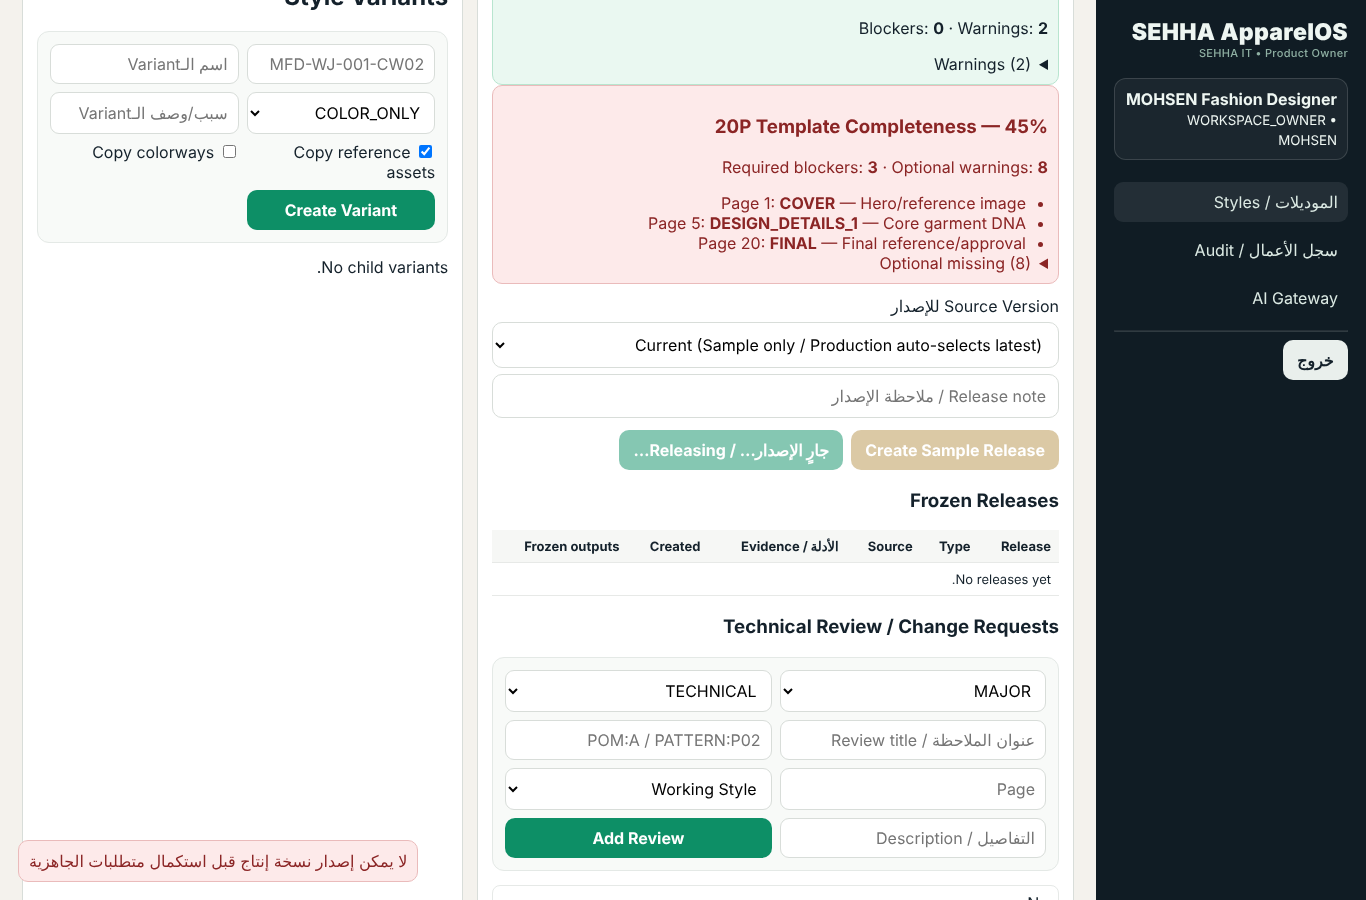
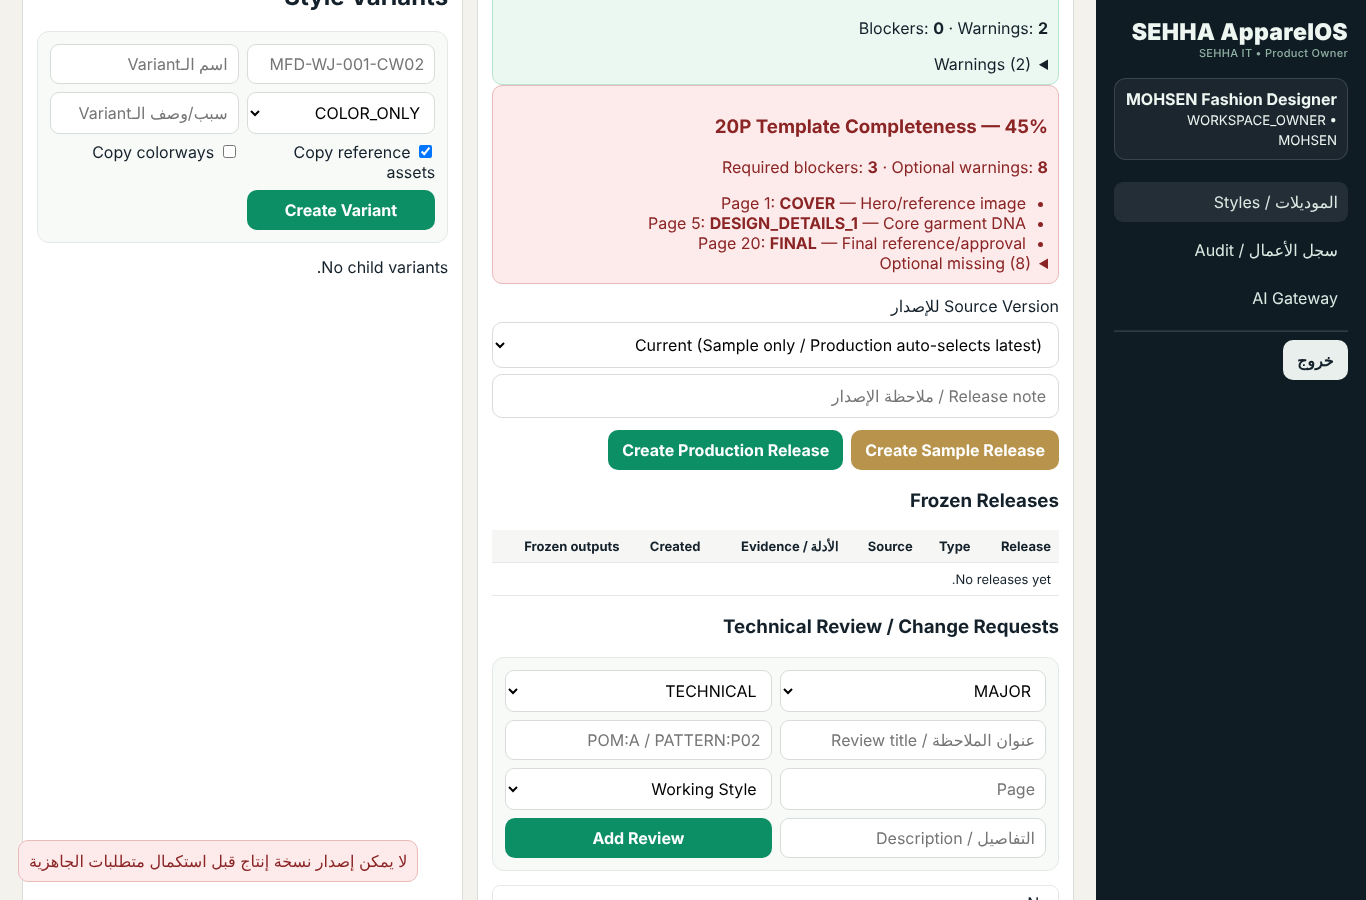
Fix same-key retry overtaken before pre-check returning 409 (found by CI)
GitHub CI (workerd D1, run 38838696311) showed that a same-key request whose
receipt lookup ran before the original committed, but whose
PRODUCTION_ALREADY_RELEASED pre-check ran after, answered 409 instead of the
original response. Every non-success answer after the first receipt lookup
now goes through settle(), which prefers the winning receipt.

Deterministic reproductions added on both engines (R29-T06 interleave,
R29-W9); both fail on the previous module and pass now. Evidence updated.

Claude-Session: https://claude.ai/code/session_012jyg7NWdrKiB9ySKJbcW6U

Changed region(s): [[0.4305, 0.4667, 0.7994, 0.5289]]

diff --git a/src/production_release.js b/src/production_release.js
@@ -69,23 +69,26 @@ export async function createRelease(request,env,styleId,ctx){
   const requestSha=await sha256Text(JSON.stringify(stableComparable({operation:OPERATION,styleId,releaseType:type,sourceVersionNo:requestedVersion,templateKey,note})));
   // Idempotent replay: same actor + tenant + operation + key. Access was re-verified above, so a revoked actor never sees it.
   const prior=await receiptFor(env,orgId,sess.userId,key);if(prior){const r=replay(prior,requestSha);return r.replayed||send(r.response);}
+  // A concurrent request with the same key may commit at any point after this lookup. Every non-success answer below is
+  // therefore routed through settle(), which prefers that winner's receipt over a conflict computed from stale reads.
+  const settle=async r=>{const won=await receiptFor(env,orgId,sess.userId,key);if(won){const rp=replay(won,requestSha);return rp.replayed||send(rp.response);}return send(r);};
 
   // Fingerprints are read BEFORE the evidence they protect, so any later change is visible at commit.
   const fp=await fingerprints(env,styleId);
   const current=await styleSnapshot(env,styleId);
   let sourceVersionNo=requestedVersion,frozen=current,candidateRaw=null;
-  if(sourceVersionNo==null&&type==='PRODUCTION'){const latest=current.versions?.[0];if(!latest)return send({status:409,body:{error:'Production release requires a frozen Style Version',code:'VERSION_REQUIRED',gate:releaseGate(current,type)}});sourceVersionNo=Number(latest.version_no);}
-  if(sourceVersionNo!=null){candidateRaw=await env.DB.prepare('SELECT snapshot_json,length(snapshot_json) len FROM style_versions WHERE style_id=? AND version_no=?').bind(styleId,sourceVersionNo).first();if(!candidateRaw)return send({status:404,body:{error:'Source version not found'}});frozen=await loadVersionSnapshot(env,styleId,sourceVersionNo);}
+  if(sourceVersionNo==null&&type==='PRODUCTION'){const latest=current.versions?.[0];if(!latest)return settle({status:409,body:{error:'Production release requires a frozen Style Version',code:'VERSION_REQUIRED',gate:releaseGate(current,type)}});sourceVersionNo=Number(latest.version_no);}
+  if(sourceVersionNo!=null){candidateRaw=await env.DB.prepare('SELECT snapshot_json,length(snapshot_json) len FROM style_versions WHERE style_id=? AND version_no=?').bind(styleId,sourceVersionNo).first();if(!candidateRaw)return settle({status:404,body:{error:'Source version not found'}});frozen=await loadVersionSnapshot(env,styleId,sourceVersionNo);}
   const releaseSnapshot={...frozen,samples:(current.samples||[]).filter(x=>sourceVersionNo==null||Number(x.version_no)===Number(sourceVersionNo)),costSheets:(current.costSheets||[]).filter(x=>x.version_no==null||sourceVersionNo==null||Number(x.version_no)===Number(sourceVersionNo))};
-  const gate=releaseGate(releaseSnapshot,type,{sourceVersionNo});if(!gate.ready)return send({status:409,body:{error:'Release gate blocked',code:'RELEASE_GATE_BLOCKED',gate}});
+  const gate=releaseGate(releaseSnapshot,type,{sourceVersionNo});if(!gate.ready)return settle({status:409,body:{error:'Release gate blocked',code:'RELEASE_GATE_BLOCKED',gate}});
   const candidateSha=await sha256Text(candidateRaw?candidateRaw.snapshot_json:JSON.stringify(stableComparable(frozen)));
   if(type==='PRODUCTION'){
-    if(await env.DB.prepare("SELECT 1 x FROM style_releases WHERE style_id=? AND release_type='PRODUCTION' AND source_version_no=?").bind(styleId,sourceVersionNo).first())return send(fail(409,'PRODUCTION_ALREADY_RELEASED',{sourceVersionNo}));
+    if(await env.DB.prepare("SELECT 1 x FROM style_releases WHERE style_id=? AND release_type='PRODUCTION' AND source_version_no=?").bind(styleId,sourceVersionNo).first())return settle(fail(409,'PRODUCTION_ALREADY_RELEASED',{sourceVersionNo}));
     const r=frozenEngineeringReadiness(frozen,releaseSnapshot.samples);
     const evidenceSha=await sha256Text(JSON.stringify(stableComparable({samples:releaseSnapshot.samples,costSheets:releaseSnapshot.costSheets})));
     const engineering={...r,basis:'FROZEN_STYLE_VERSION',captureContract:ENGINEERING_CAPTURE_CONTRACT,sourceVersionNo,candidateSha256:candidateSha,evidenceSha256:evidenceSha,evaluatedAt:now(),
       decision:r.status,humanApproval:{state:'NOT_GRANTED_BY_THIS_GATE',requiredSignoffsForHandoff:['DESIGN','PATTERN','PRODUCTION','QC']}};
-    if(r.status!=='ELIGIBLE_FOR_MANUAL_RELEASE_REVIEW'){const code=r.blockers.includes('ENGINEERING_NOT_CAPTURED_IN_VERSION')?'ENGINEERING_NOT_CAPTURED_IN_VERSION':'ENGINEERING_READINESS_BLOCKED';return send(fail(409,code,{engineering,gate}));}
+    if(r.status!=='ELIGIBLE_FOR_MANUAL_RELEASE_REVIEW'){const code=r.blockers.includes('ENGINEERING_NOT_CAPTURED_IN_VERSION')?'ENGINEERING_NOT_CAPTURED_IN_VERSION':'ENGINEERING_READINESS_BLOCKED';return settle(fail(409,code,{engineering,gate}));}
     engineering.decisionSha256=await sha256Text(JSON.stringify(stableComparable({rulesVersion:r.rulesVersion,blockers:r.blockers,status:r.status,candidateSha256:candidateSha,evidenceSha256:evidenceSha})));
     gate.engineering=engineering;releaseSnapshot.engineeringReadiness=engineering;
   }
@@ -118,7 +121,7 @@ export async function createRelease(request,env,styleId,ctx){
   catch(e){
     const msg=String(e?.message||e);
     // A concurrent request with the same key may have won: answer with its receipt, never with a second release.
-    const won=await receiptFor(env,orgId,sess.userId,key);if(won){const r=replay(won,requestSha);return r.replayed||send(r.response);}
+    const won=await receiptFor(env,orgId,sess.userId,key);if(won){const rp=replay(won,requestSha);return rp.replayed||send(rp.response);}
     if(/NOT NULL constraint failed: release_receipts\.release_id/.test(msg)){
       const now2=await actorAccess(env,sess.userId,orgId);if(!now2.ok)return send(fail(403,now2.code));
       if(!(await licensed(env,orgId)))return send(fail(403,'FEATURE_NOT_LICENSED'));

diff --git a/qa/ROUND29_CLOUD_20261016/FAILURE_INJECTION_EVIDENCE.md b/qa/ROUND29_CLOUD_20261016/FAILURE_INJECTION_EVIDENCE.md
@@ -1,42 +1,42 @@
-# Failure injection evidence (ROUND29)
+# Failure injection evidence (ROUND29, final code)
 
-Method: a real SQLite trigger `RAISE(ABORT,'INJECTED_FAILURE')` is created on the target table, one release is attempted with an Idempotency-Key, the trigger is dropped, and the same key is retried. Counts are taken from the database before/after (`releases`/`receipts` for the style, `audits` = all `RELEASE/CREATE` audit rows, `status` = style status).
+Method: a real SQLite trigger `RAISE(ABORT,'INJECTED_FAILURE')` is created on the target table, one release is attempted with an Idempotency-Key, the trigger is dropped, and the same key is retried. Counts come from the database (`releases`/`receipts` for the style, `audits` = all `RELEASE/CREATE` audit rows, `status` = style status).
 
-There is no separate security-event table in this product; `audit_log` is the mandatory audit/security evidence and `release_receipts` is the success representation. Both are inside the batch.
+This product has no separate security-event table: `audit_log` is the mandatory audit/security evidence and `release_receipts` is the success representation. Both are inside the batch.
 
 ## node:sqlite engine (tests/round29_atomic_release.mjs, T07)
 
 | Injected at | HTTP | Before | After failure | After same-key retry |
 |---|---|---|---|---|
-| style_releases INSERT | 500 RELEASE_COMMIT_FAILED | rel=0 rcp=0 audit=10 status=DRAFT | rel=0 rcp=0 audit=10 status=DRAFT | rel=1 rcp=1 audit=11 status=PRODUCTION_RELEASED |
-| release_receipts INSERT | 500 RELEASE_COMMIT_FAILED | rel=0 rcp=0 audit=11 status=DRAFT | rel=0 rcp=0 audit=11 status=DRAFT | rel=1 rcp=1 audit=12 status=PRODUCTION_RELEASED |
-| styles UPDATE | 500 RELEASE_COMMIT_FAILED | rel=0 rcp=0 audit=12 status=DRAFT | rel=0 rcp=0 audit=12 status=DRAFT | rel=1 rcp=1 audit=13 status=PRODUCTION_RELEASED |
-| audit_log INSERT | 500 RELEASE_COMMIT_FAILED | rel=0 rcp=0 audit=13 status=DRAFT | rel=0 rcp=0 audit=13 status=DRAFT | rel=1 rcp=1 audit=14 status=PRODUCTION_RELEASED |
+| style_releases INSERT | 500 RELEASE_COMMIT_FAILED | rel=0 rcp=0 audit=11 status=DRAFT | rel=0 rcp=0 audit=11 status=DRAFT | rel=1 rcp=1 audit=12 status=PRODUCTION_RELEASED |
+| release_receipts INSERT | 500 RELEASE_COMMIT_FAILED | rel=0 rcp=0 audit=12 status=DRAFT | rel=0 rcp=0 audit=12 status=DRAFT | rel=1 rcp=1 audit=13 status=PRODUCTION_RELEASED |
+| styles UPDATE | 500 RELEASE_COMMIT_FAILED | rel=0 rcp=0 audit=13 status=DRAFT | rel=0 rcp=0 audit=13 status=DRAFT | rel=1 rcp=1 audit=14 status=PRODUCTION_RELEASED |
+| audit_log INSERT | 500 RELEASE_COMMIT_FAILED | rel=0 rcp=0 audit=14 status=DRAFT | rel=0 rcp=0 audit=14 status=DRAFT | rel=1 rcp=1 audit=15 status=PRODUCTION_RELEASED |
 
 ## workerd local D1 (tests/round29_workerd_d1.mjs, W6)
 
 | Injected at | HTTP | Before | After |
 |---|---|---|---|
-| style_releases INSERT | 500 RELEASE_COMMIT_FAILED | rel=0 rcp=0 audit=4 status=DRAFT | rel=0 rcp=0 audit=4 status=DRAFT |
-| release_receipts INSERT | 500 RELEASE_COMMIT_FAILED | rel=0 rcp=0 audit=4 status=DRAFT | rel=0 rcp=0 audit=4 status=DRAFT |
-| styles UPDATE | 500 RELEASE_COMMIT_FAILED | rel=0 rcp=0 audit=4 status=DRAFT | rel=0 rcp=0 audit=4 status=DRAFT |
-| audit_log INSERT | 500 RELEASE_COMMIT_FAILED | rel=0 rcp=0 audit=4 status=DRAFT | rel=0 rcp=0 audit=4 status=DRAFT |
+| style_releases INSERT | 500 RELEASE_COMMIT_FAILED | rel=0 rcp=0 audit=5 status=DRAFT | rel=0 rcp=0 audit=5 status=DRAFT |
+| release_receipts INSERT | 500 RELEASE_COMMIT_FAILED | rel=0 rcp=0 audit=5 status=DRAFT | rel=0 rcp=0 audit=5 status=DRAFT |
+| styles UPDATE | 500 RELEASE_COMMIT_FAILED | rel=0 rcp=0 audit=5 status=DRAFT | rel=0 rcp=0 audit=5 status=DRAFT |
+| audit_log INSERT | 500 RELEASE_COMMIT_FAILED | rel=0 rcp=0 audit=5 status=DRAFT | rel=0 rcp=0 audit=5 status=DRAFT |
 
 ## Commit-window drift (guard aborts, not injected errors)
 
 | Engine | Drift | Code | Before | After |
 |---|---|---|---|---|
-| node:sqlite | new Style Version created | STALE_CANDIDATE | rel=0 rcp=0 audit=14 | rel=0 rcp=0 audit=14 |
-| node:sqlite | PP sample approval revoked | STALE_CANDIDATE | rel=0 rcp=0 audit=14 | rel=0 rcp=0 audit=14 |
-| node:sqlite | cost line added | STALE_CANDIDATE | rel=0 rcp=0 audit=14 | rel=0 rcp=0 audit=14 |
-| node:sqlite | competing release committed | RELEASE_CONFLICT | rel=0 rcp=0 audit=14 | rel=1 rcp=0 audit=14 |
-| node:sqlite | membership removed | FORBIDDEN_ACTOR | rel=0 rcp=0 audit=17 | rel=0 rcp=0 audit=17 |
-| node:sqlite | user deactivated | FORBIDDEN_ACTOR | rel=0 rcp=0 audit=17 | rel=0 rcp=0 audit=17 |
-| node:sqlite | platform admin flag revoked (no membership) | FORBIDDEN_ACTOR | rel=0 rcp=0 audit=17 | rel=0 rcp=0 audit=17 |
-| node:sqlite | RELEASES entitlement disabled | FEATURE_NOT_LICENSED | rel=0 rcp=0 audit=17 | rel=0 rcp=0 audit=17 |
-| workerd D1 | new Style Version created | STALE_CANDIDATE | rel=0 rcp=0 audit=4 | rel=0 rcp=0 audit=4 |
-| workerd D1 | membership of actor removed | FORBIDDEN_ACTOR | rel=0 rcp=0 audit=4 | rel=0 rcp=0 audit=4 |
+| node:sqlite | new Style Version created | STALE_CANDIDATE | rel=0 rcp=0 audit=15 | rel=0 rcp=0 audit=15 |
+| node:sqlite | PP sample approval revoked | STALE_CANDIDATE | rel=0 rcp=0 audit=15 | rel=0 rcp=0 audit=15 |
+| node:sqlite | cost line added | STALE_CANDIDATE | rel=0 rcp=0 audit=15 | rel=0 rcp=0 audit=15 |
+| node:sqlite | competing release committed | RELEASE_CONFLICT | rel=0 rcp=0 audit=15 | rel=1 rcp=0 audit=15 |
+| node:sqlite | membership removed | FORBIDDEN_ACTOR | rel=0 rcp=0 audit=18 | rel=0 rcp=0 audit=18 |
+| node:sqlite | user deactivated | FORBIDDEN_ACTOR | rel=0 rcp=0 audit=18 | rel=0 rcp=0 audit=18 |
+| node:sqlite | platform admin flag revoked (no membership) | FORBIDDEN_ACTOR | rel=0 rcp=0 audit=18 | rel=0 rcp=0 audit=18 |
+| node:sqlite | RELEASES entitlement disabled | FEATURE_NOT_LICENSED | rel=0 rcp=0 audit=18 | rel=0 rcp=0 audit=18 |
+| workerd D1 | new Style Version created | STALE_CANDIDATE | rel=0 rcp=0 audit=5 | rel=0 rcp=0 audit=5 |
+| workerd D1 | membership of actor removed | FORBIDDEN_ACTOR | rel=0 rcp=0 audit=5 | rel=0 rcp=0 audit=5 |
 
-Response bodies on 500 contain only `{error, code:'RELEASE_COMMIT_FAILED', correlationId}`; the tests assert no `INJECTED`, `SQLITE`, `D1_ERROR`, `constraint`, `INSERT` or `UPDATE` text leaks.
+500 bodies contain only `{error, code:'RELEASE_COMMIT_FAILED', correlationId}`; the tests assert that no `INJECTED`, `SQLITE`, `D1_ERROR`, `constraint`, `INSERT` or `UPDATE` text leaks.
 
 Raw logs: `raw/round29_atomic_release.log`, `raw/round29_workerd_d1.log`.

diff --git a/qa/ROUND29_CLOUD_20261016/ROUND29_AR_EXECUTIVE_REPORT.md b/qa/ROUND29_CLOUD_20261016/ROUND29_AR_EXECUTIVE_REPORT.md
@@ -1,0 +1,66 @@
+# تقرير ROUND29 التنفيذي — إصدار الإنتاج الذري (Atomic Production Release)
+
+**الحكم: `FOCUSED_PASS`** لنطاق الجولة. التجربة الإنتاجية (Production Pilot) ما زالت **BLOCKED**.
+
+## المصدر والسلسلة
+- الفرع الحديث: `codex/apparelos-preview21-integration` @ `9bcd13d` (PR #1).
+- PR #2 (ROUND28): head `c779d48`، وهو مطابق للتقرير السابق بلا انحراف، وCI الخاص به ناجح على GitHub.
+- فرع هذه الجولة: `claude/round29-atomic-release`. الـcommit الأول `068c257`.
+- PR #3 (Draft) مكدّس على فرع PR #2، فلا يظهر فيه إلا تغيير ROUND29. لم يتم أي merge ولا deploy، و`main` لم يُلمس.
+
+## ما تم فعليًا
+1. **أمر إصدار واحد**: أصبح `POST /releases` كله في `src/production_release.js`.
+   - كل شرط قابل للتغيّر بين التقييم والحفظ يُعاد فحصه داخل `D1.batch()` واحد، وهو معاملة واحدة: الـtenant، نشاط المستخدم وعضويته من قاعدة البيانات لا من الـcookie، الترخيص، عدم وجود إصدار منافس، عدم ظهور نسخة جديدة، ثبات أدلة العينة والتكلفة، وإصدار إنتاج واحد فقط لكل نسخة.
+   - في نفس المعاملة يُحفظ: صف الإصدار، إيصال غير قابل للتعديل، حالة الموديل، وسجل الـaudit.
+2. **Idempotency-Key**:
+   - إعادة نفس الطلب ترجع الرد الأصلي حرفيًا.
+   - نفس المفتاح مع طلب مختلف يرجع 409.
+   - الخاسر في السباق يحصل على 409 وليس 500.
+   - الخطأ غير المتوقع يرجع 500 برقم تتبع، دون أي نص SQL.
+3. **جاهزية مجمّدة**:
+   - البيانات الهندسية تُلتقط داخل نسخة الموديل.
+   - جاهزية الإنتاج تُحسب من النسخة المجمّدة فقط، وتُحفظ معها hashes للمرشّح وللأدلة وللقرار، ورقم إصدار القواعد.
+   - «مؤهّل للمراجعة» لا يعني «معتمد»: لا يُنشأ أي توقيع تلقائيًا، والتسليم للمصنع ما زال يتطلب 4 توقيعات بشرية.
+4. **Migration 0020 (schema 22)**: إضافية فقط.
+   - جدول إيصالات.
+   - فهرس فريد جزئي لإصدارات الإنتاج الجديدة.
+   - triggers تمنع تعديل أو حذف الإصدارات الجديدة والإيصالات ولقطات النسخ.
+   - الإصدارات القديمة لم تُمس، وتظهر بوصف «قديم — الأدلة غير ملتقطة».
+5. **الواجهة (عربي RTL)**:
+   - مفتاح لكل نية إصدار.
+   - قفل ضد الضغط المزدوج.
+   - رسائل عربية واضحة، منها «لا يمكن إصدار نسخة إنتاج قبل استكمال متطلبات الجاهزية» و«هناك إصدار آخر تم اعتماده؛ حدّث الصفحة».
+   - عمود جديد للأدلة.
+
+## الأدلة (أعداد فعلية غير مكررة)
+| البوابة | النتيجة |
+|---|---|
+| `npm test` على Node 22.22 و Node 24.22 | 26 suite / 623 assertion ✓ (كان 25 / 556) |
+| اختبار ROUND29 العدائي | 67 ✓ |
+| workerd D1 محلي، بـmigrations عبر wrangler | 17 ✓ |
+| متصفح Chromium على `wrangler dev` محلي | 7 ✓ |
+| `npm audit` | 0 |
+| `git diff --check` | نظيف |
+| الإجمالي | PASS 647 · FAIL 0 |
+
+تفاصيل اختبار ROUND29 العدائي:
+- سباق 25 طلبًا مع حاجز عند نقطة الحفظ: إصدار واحد فقط، و24 × 409، وصفر 500.
+- حقن فشل في كل جملة من الجمل الأربع: صفر كتابات جزئية.
+- تغيّر النسخة أو العينة أو التكلفة أو العضوية أو الترخيص داخل نافذة الحفظ: 409 أو 403 بلا أي كتابة.
+- كشف التلاعب بالـhash.
+- ترقية فوق صفوف قديمة مكررة.
+
+## ما لم يُنفذ أو لا يمكن إثباته هنا
+- **Cloudflare D1 البعيد: `BLOCKED_ENV`**. لم يُنشأ أي مورد بعيد، ولم تُطبق أي migration بعيدة.
+- **لا يوجد في المنتج نموذج HOLD أو صيانة أو أرشفة: `BLOCKED_NO_HOLD_MODEL`.**
+- **لا يوجد مخزن جلسات لإلغاء cookie بعينه: `BLOCKED_NO_SESSION_STORE`.** البديل المطبّق: إيقاف المستخدم أو حذف عضويته يُرفض عند لحظة الحفظ.
+- سياسة إيقاف التسليم أو أوامر الإنتاج للإصدارات القديمة: موثقة كقرار مالك معلّق، ولم تُفرض.
+- إعادة التحقق من نشاط المستخدم في باقي المسارات (غير الإصدار): مفتوحة P1.
+
+## CI
+GITHUB_CI_RESULT_PLACEHOLDER
+
+## الخطوة التالية
+جعل Factory Handoff انتقالًا ذريًا idempotent بنفس النمط، وحسم سياسة الإصدارات القديمة. التفاصيل في `ROUND29_NEXT_BATCH.md`.
+
+**ترتيب النشر:** طبّق migration 0020 قبل نشر الـWorker، وإلا سيرفض الـWorker القاعدة القديمة بـ503.

diff --git a/qa/ROUND29_CLOUD_20261016/REGRESSION_VERDICT.md b/qa/ROUND29_CLOUD_20261016/REGRESSION_VERDICT.md
@@ -1,0 +1,40 @@
+# Regression verdict — ROUND29
+
+## Commands actually run (logs in `raw/`)
+| Command | Node | Before (c779d48) | After (ROUND29) |
+|---|---|---|---|
+| `npm ci` | 22.22.0 | 0 vulnerabilities | — |
+| `npm run check` | 22.22.0 | exit 0 | exit 0 (now also checks `src/production_release.js`) |
+| `npm test` | 22.22.0 | 25 suites / 556 assertions PASS (10.7 s) | **26 suites / 623 assertions PASS** |
+| `node tests/run_all.mjs` | 24.22.0 (nodejs.org tarball, SHA256 verified) | 25 / 556 PASS (9.0 s) | **26 / 623 PASS** |
+| `npm audit --audit-level=high` | — | 0 | 0 |
+| `git diff --check` | — | — | clean |
+| `npm run test:workerd-d1` (workerd local D1 via wrangler) | 22.22.0 | n/a | **17 / 17 PASS** (~85 s) |
+| `qa/ROUND29_CLOUD_20261016/browser_release_check.mjs` (Chromium vs local `wrangler dev`) | 22.22.0 | n/a | **7 / 7 PASS** |
+
+## De-duplicated count
+- Aggregate runner: 623 unique PASS assertions = 539 inherited (unchanged count; 19 files changed only their migration list / schema literal "21"→"22", 4 files moved the engineering fixture before version creation) + 17 ROUND28 (re-based onto frozen versions; same intents) + 67 ROUND29.
+- Outside the runner: 17 workerd D1 + 7 browser = 24 additional, not double-counted.
+- **PASS 647 · FAIL 0** (final code). History: the first push (068c257) failed GitHub CI at R29-W5 — a real idempotency race defect (R29-F13), fixed and re-proven; see DEFECT_LEDGER.md.
+
+## Separately reported environment gates
+| Gate | Verdict | Note |
+|---|---|---|
+| Remote Cloudflare D1 / Worker | **BLOCKED_ENV** | no approved non-production remote D1; nothing remote created or migrated |
+| GitHub Actions on PR #3 | see `ROUND29_AR_EXECUTIVE_REPORT.md` (filled after the run finished) | Node 24 workflow runs check, test and the new workerd step |
+| Browser | **PASS (local)** | local workerd + local D1 only; not a deployed preview |
+| HOLD / maintenance races | **BLOCKED_NO_HOLD_MODEL** | product has no such state |
+| Per-session revocation | **BLOCKED_NO_SESSION_STORE** | stateless HMAC sessions |
+
+## Focal verdict
+All mandatory focal invariants were proven locally on two engines (node:sqlite through the D1 adapter, and workerd D1):
+- one authoritative transition
+- release, receipt, status and audit are atomic
+- legitimate retries are idempotent
+- the same key with a different payload is 409
+- under a barrier race, exactly one request commits
+- an expected race never returns 500
+- negative authorization and failure injection behave as specified
+- frozen-version readiness holds
+
+→ **FOCUSED_PASS** for ROUND29 scope. Production pilot remains **BLOCKED** (remote D1/Worker, deployed browser, Handoff→Lot authority chain).

diff --git a/qa/ROUND29_CLOUD_20261016/DEFECT_LEDGER.md b/qa/ROUND29_CLOUD_20261016/DEFECT_LEDGER.md
@@ -6,6 +6,7 @@
 | R28-D3 | P1 | `MAX(release_no)+1` race surfaced as HTTP 500 (UNIQUE) | same | **FIXED** | guard `MAX(release_no)=n-1` in-transaction + UNIQUE backstop → 409 RELEASE_CONFLICT; 0×500 in 25/20-way races (R29-T06, R29-W4/W8) |
 | R28-D4 | P1 | Readiness read live mutable engineering tables (TOCTOU) | `src/engineering.js`, `src/worker.js` (versions) | **FIXED** | engineering frozen into Style Version; readiness evaluated only from it (R29-T02, ROUND28 #12) |
 | R29-F1 | P1 | No idempotency for release creation | `src/production_release.js`, `migrations/0020` | **FIXED** | `Idempotency-Key` + immutable `release_receipts` (R29-T04/T05/T06) |
+| R29-F13 | P1 | Same-key retry that loses the race to the original between receipt lookup and the `PRODUCTION_ALREADY_RELEASED` pre-check got 409 instead of the original response (idempotency contract broken) — **found by GitHub CI on workerd D1**, not by local free-running runs | `src/production_release.js` | **FIXED** | all post-lookup non-success answers go through `settle()` which prefers the winner's receipt; deterministic reproductions R29-T06#9 (node) and R29-W9 (workerd) fail on the pre-fix code (`raw/round29_workerd_d1_PREFIX_FAIL.log`) and pass after |
 | R29-F2 | P1 | Frozen Style Version snapshot could be UPDATEd | `migrations/0020` | **FIXED** | `trg_style_versions_snapshot_immutable` (R29-T11) |
 | R29-F3 | P1 | Contract release rows / receipts could be UPDATEd or DELETEd at DB level | `migrations/0020` | **FIXED** | 4 triggers (R29-T11, R29-W3) |
 | R28-D6 | P1 | Legacy PRODUCTION releases carry no readiness evidence | `src/production_release.js:releaseEvidenceStatus`, `public/app.js` | **PARTIAL** | labelled `LEGACY_UNVERIFIED` on list/manifest/handoff/UI, never mutated; downstream Handoff/Lot **not** blocked — owner decision pending (see FROZEN_READINESS_CONTRACT.md) |
